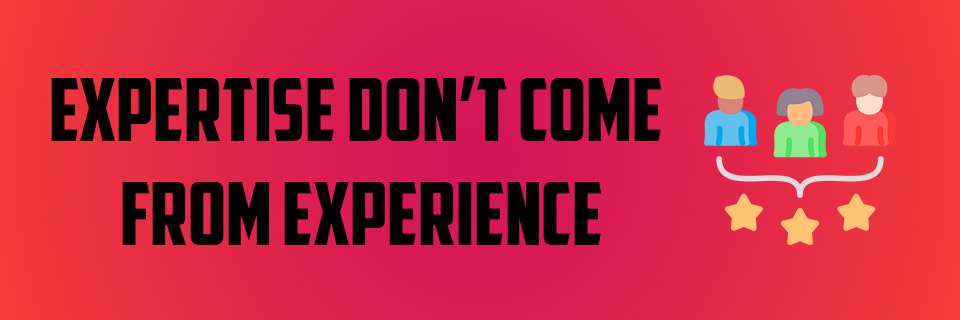
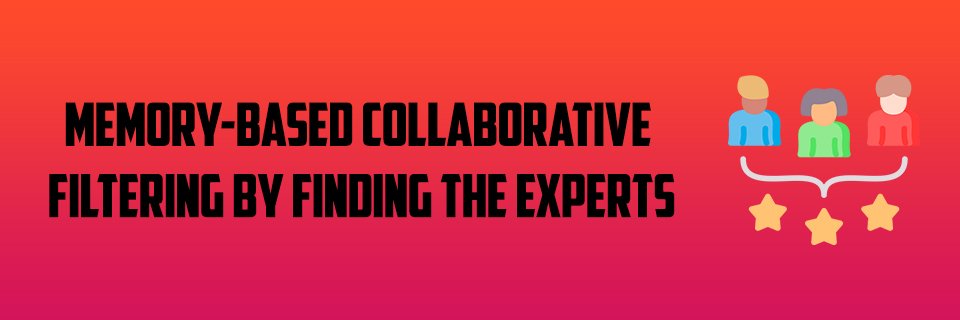
Portfolio Minor Updated

diff --git a/index.html b/index.html
@@ -54,7 +54,7 @@
 							<ul>
 								<li>Bachelor of Science (BSc.) in Computer Science and Engineering<br>
 								Ahsanullah University of Science and Technology<br>
-							Year: 2016 - Current</li>
+							Year: 2016 - 2021</li>
 							<li>Higher Secondary Certificate (HSC)<br>
 								Bir Shrestha Noor Mohammad Public College<br>
 							Year: 2016</li>
@@ -65,10 +65,10 @@
 							<h4>Skills Summary</h4>
 							<ul>
 								<li><b>Language:</b> C, C++, Java, Python, SQL.</li>
-								<li><b>Web Development:</b> HTML, CSS, Bootstrap, PHP.</li>
+								<li><b>Web Development:</b> HTML, CSS, Bootstrap, PHP, Javascript.</li>
 								<li><b>Database:</b> MSSQL, MySQL, SQLite, PL/SQL.</li>
 								<li><b>Misc:</b> MATLAB, Competitive Programming, Machine Learning, Github.</li>
-								<li><b>Problem Solving:</b> Solved 500+ problems in CodeChef, Codeforces, Spoj, HackerEarth, Hackerrank, LightOJ, Toph and UVA. Here are my Online Judge Accounts - <a href="https://www.codechef.com/users/asj16">CodeChef</a>, <a href="http://codeforces.com/profile/asj16">Codeforces</a>, <a href="https://www.hackerrank.com/asj16">HackerRank</a>, <a href="https://www.hackerearth.com/@ahmadsubaktagin">HackerEarth</a>, <a href="https://lightoj.com/user/subaktagin-j">LightOJ</a>, <a href="https://toph.co/u/asj_16">Toph</a> and <a href="https://uhunt.onlinejudge.org/id/974120">UVA</a></li>
+								<li><b>Problem Solving:</b> Solved 500+ offline and online problems in <a href="https://www.codechef.com/users/asj16">CodeChef</a>, <a href="http://codeforces.com/profile/asj16">Codeforces</a>, Spoj, <a href="https://www.hackerearth.com/@ahmadsubaktagin">HackerEarth</a>, <a href="https://www.hackerrank.com/asj16">HackerRank</a>, <a href="https://lightoj.com/user/subaktagin-j">LightOJ</a>, <a href="https://toph.co/u/asj_16">Toph</a> and <a href="https://uhunt.onlinejudge.org/id/974120">UVA</a>.</li>
 							</ul>
 						</article>
 						
@@ -96,9 +96,9 @@
 							<h3>Employee Satisfaction Prediction for Job Postings in Different Areas</h3>
 							<span class="image main"><img src="images/employee.jpg" alt="" /></span>
 							<p>It is a project that predicts Employee Satisfaction for job postings in different areas around Bangladesh. It is built with Pytorch. This project was made along with Aniqua Tabassum and Noushin Tabassum.</p>
-							<h3>Expertise Don’t Come from Experience (Ongoing)</h3>
+							<h3>Memory-based Collaborative Filtering by Finding the Experts</h3>
 							<span class="image main"><img src="images/thesis.jpg" alt="" /></span>
-							<p>It is our Undergraduate Thesis. It is mainly an idea of Memory-based Collaborative Filtering by Finding the Experts. Mr. Mir Tafseer Nayeem is Supervisor of our thesis. My groupmates are - Abanti Chakraborty Shruti, Ashraful Hoque and Kazi Omar Faruk.</p>
+							<p>It is our Undergraduate Thesis. Mr. Mir Tafseer Nayeem is Supervisor of our thesis. My groupmates are - Abanti Chakraborty Shruti, Ashraful Hoque and Kazi Omar Faruk.</p>
 						</article>
 
 						<!-- Participation -->
@@ -176,10 +176,15 @@
 							</ol>
 							<h5>HackerRank</h5>
 							<ol>
-								<li><a href="certificate/Problem Solving (Basic).pdf">Problem Solving (Basic)</a></li>
-								<li><a href="certificate/Java (Basic).pdf">Java (Basic)</a></li>
-								<li><a href="certificate/SQL (Basic).pdf">SQL (Basic)</a></li>
-								<li><a href="certificate/Python (Basic).pdf">Python (Basic)</a></li>
+								<li><a href="https://www.hackerrank.com/certificates/a019bbdd1b3f">Problem Solving (Basic)</a></li>
+								<li><a href="https://www.hackerrank.com/certificates/3aac8db08924">Java (Basic)</a></li>
+								<li><a href="https://www.hackerrank.com/certificates/eb9e4572c32f">SQL (Basic)</a></li>
+								<li><a href="https://www.hackerrank.com/certificates/395f1c20d89b">Python (Basic)</a></li>
+								<li><a href="https://www.hackerrank.com/certificates/fbb233ff40a8">JavaScript (Basic)</a></li>
+							</ol>
+							<h5>FreeCodeCamp</h5>
+							<ol>
+								<li><a href="https://www.freecodecamp.org/certification/fcc3554f9f5-b0f9-438b-9c4e-80a4c848ffe9/javascript-algorithms-and-data-structures">JavaScript Algorithms and Data Structures</a></li>
 							</ol>
 							<h5>Participation</h5>
 							<ol>
